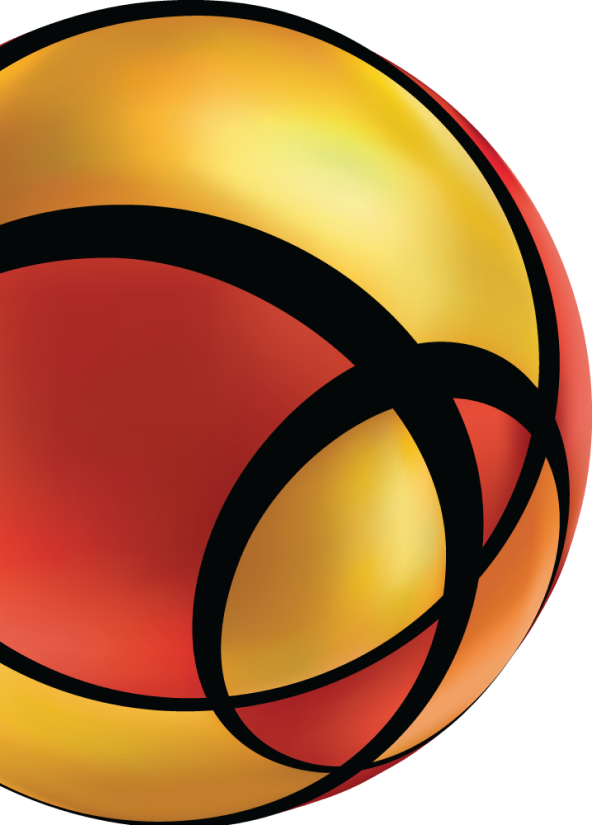
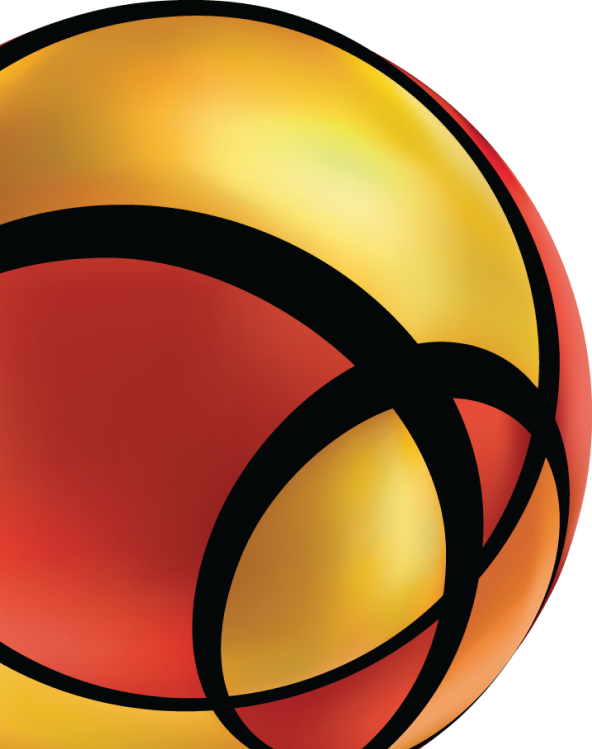
style: fix home page

diff --git a/pages/home.html b/pages/home.html
@@ -11,61 +11,63 @@
 </head>
 <body>
     
-    <header class="header">
+    <div class="home-container">
+        <header class="header">
 
-        <h1 class="header-logo">
-            <img src="../image/logo-compasso.svg" alt="Compass logo" class="header-logo__image">
-        </h1>
+            <h1 class="header-logo">
+                <img src="../image/logo-compasso.svg" alt="Compass logo" class="header-logo__image">
+            </h1>
 
-        <div class="header__timekeeper">
-            <time class="header__time">11:26</time>
-            <p class="header__datetime">terça-feira, 17 de março de 2020</p>
-        </div>
-
-        <div class="header__localization">
-            <h3 class="header__address">Passo Fundo - RS</h3>
-            <div class="header__weather">
-                <span class="header__icon"></span>
-                <p class="header__weather--value">22º</p>
+            <div class="header__timekeeper">
+                <time class="header__time">11:26</time>
+                <p class="header__datetime">terça-feira, 17 de março de 2020</p>
             </div>
-        </div>
 
-    </header>
-
-    <main class="home-content">
-
-        <figure class="big-compass">
-            <img src="../image/bola-compasso.png" alt="Big Compass logo" class="big-compass__image">
-        </figure>
-        <section class="missions">
-            <h2 class="missions__header">Our mission is</h2>
-            <p class="missions__translate">Nossa missão é</p>
-            <h3 class="missions__text">to transform the world</h3>
-            <p class="missions__translate">transformar o mundo</p>
-            <h3 class="missions__text">building digital experiences</h3>
-            <p class="missions__translate">construindo experiências digitais</p>
-            <h3 class="missions__text">that enable our client’s growth</h3>
-            <p class="missions__translate">que permitam o crescimento dos nossos clientes</p>
-        </section>
-
-    </main>
-
-    <footer class="footer">
-
-        <p class="footer__text">Essa janela do navegador é usada para manter sua sessão de autenticação ativa. Deixe-a aberta em segundo plano e abra uma nova janela para continuar a navegar.</p>
-        <div class="counter">
-            <p class="counter__text">Application refresh in</p>
-            <div class="counter__timer">
-                <p class="counter__meter">600</p>
-                <p class="counter__seconds">seconds</p>
+            <div class="header__localization">
+                <h3 class="header__address">Passo Fundo - RS</h3>
+                <div class="header__weather">
+                    <span class="header__icon"></span>
+                    <p class="header__weather--value">22º</p>
+                </div>
             </div>
-        </div>
-        <div class="footer__buttons">
-            <a href="https://noticias.uol.com.br/" target="_blank" class="footer__button--continue">Continuar </br>Navegando</a>
-            <button class="footer__button--logout">Logout</button>
-        </div>
 
-    </footer>
+        </header>
+
+        <main class="home-content">
+
+            <figure class="big-compass">
+                <img src="../image/bola-compasso.png" alt="Big Compass logo" class="big-compass__image">
+            </figure>
+            <section class="missions">
+                <h2 class="missions__header">Our mission is</h2>
+                <p class="missions__translate">Nossa missão é</p>
+                <h3 class="missions__text">to transform the world</h3>
+                <p class="missions__translate">transformar o mundo</p>
+                <h3 class="missions__text">building digital experiences</h3>
+                <p class="missions__translate">construindo experiências digitais</p>
+                <h3 class="missions__text">that enable our client’s growth</h3>
+                <p class="missions__translate">que permitam o crescimento dos nossos clientes</p>
+            </section>
+
+        </main>
+
+        <footer class="footer">
+
+            <p class="footer__text">Essa janela do navegador é usada para manter sua sessão de autenticação ativa. Deixe-a aberta em segundo plano e abra uma nova janela para continuar a navegar.</p>
+            <div class="counter">
+                <p class="counter__text">Application refresh in</p>
+                <div class="counter__timer">
+                    <p class="counter__meter">600</p>
+                    <p class="counter__seconds">seconds</p>
+                </div>
+            </div>
+            <div class="footer__buttons">
+                <a href="https://noticias.uol.com.br/" target="_blank" class="footer__button--continue">Continuar </br>Navegando</a>
+                <button class="footer__button--logout">Logout</button>
+            </div>
+
+        </footer>
+    </div>
 
     <script type="module" src="../javascript/setTime.js"></script>
     <script type="module" src="../javascript/setLocalization.js"></script>

diff --git a/styles/main.css b/styles/main.css
@@ -136,6 +136,13 @@ figure {
      object-fit: cover;
 }
 
+.home-container {
+  min-height: 100vh;
+  margin: 0;
+  display: grid;
+  grid-template-rows: auto 1fr auto;
+}
+
 .header {
   display: flex;
   justify-content: space-between;
@@ -179,11 +186,22 @@ figure {
 
 .home-content {
   display: grid;
-  grid-template-columns: 1fr 1fr;
+  grid-template-columns: 0.6fr 1fr;
+}
+
+.big-compass {
+  display: flex;
+  flex-direction: column;
+  justify-content: end;
+}
+.big-compass img {
+  width: 26vmax;
 }
 
 .missions {
   text-align: right;
+  margin-right: 6.98vw;
+  margin-top: 6vh;
 }
 .missions__header, .missions__text {
   font-size: 2.25rem;

diff --git a/styles/scss/_components.scss b/styles/scss/_components.scss
@@ -111,6 +111,13 @@
 
 //Home Page
 
+.home-container {
+    min-height: 100vh;
+    margin: 0;
+    display: grid;
+    grid-template-rows: auto 1fr auto;
+}
+
 .header {
     display: flex;
     justify-content: space-between;
@@ -162,11 +169,23 @@
 
 .home-content {
     display: grid;
-    grid-template-columns: 1fr 1fr;
+    grid-template-columns: 0.6fr 1fr;
+}
+
+.big-compass {
+    display: flex;
+    flex-direction: column;
+    justify-content: end;
+
+    & img {
+        width: 26vmax;
+    }
 }
 
 .missions {
     text-align: right;
+    margin-right: 6.98vw;
+    margin-top: 6vh;
 
     &__header {
         font-size: 2.25rem;
